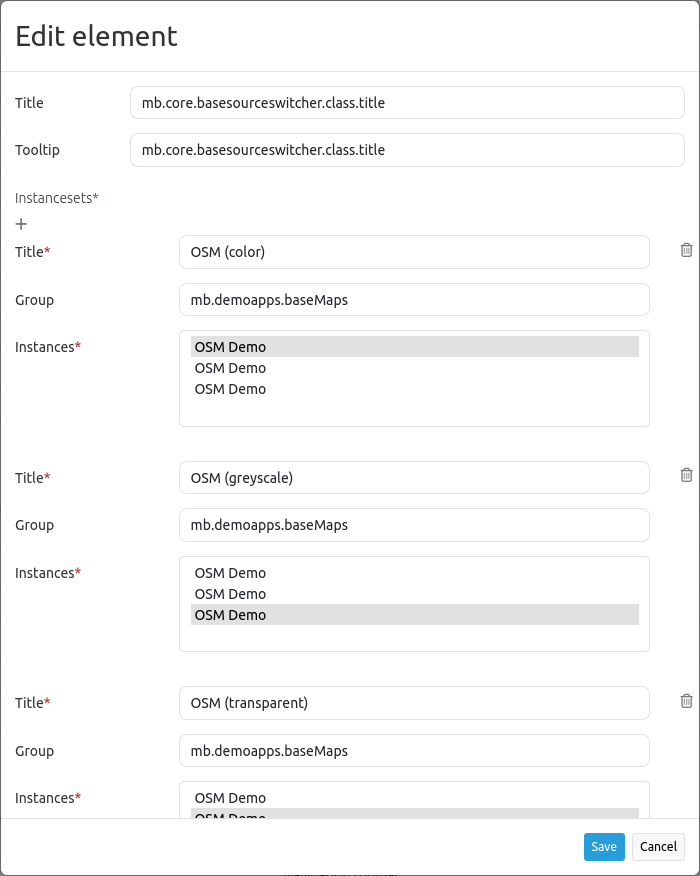
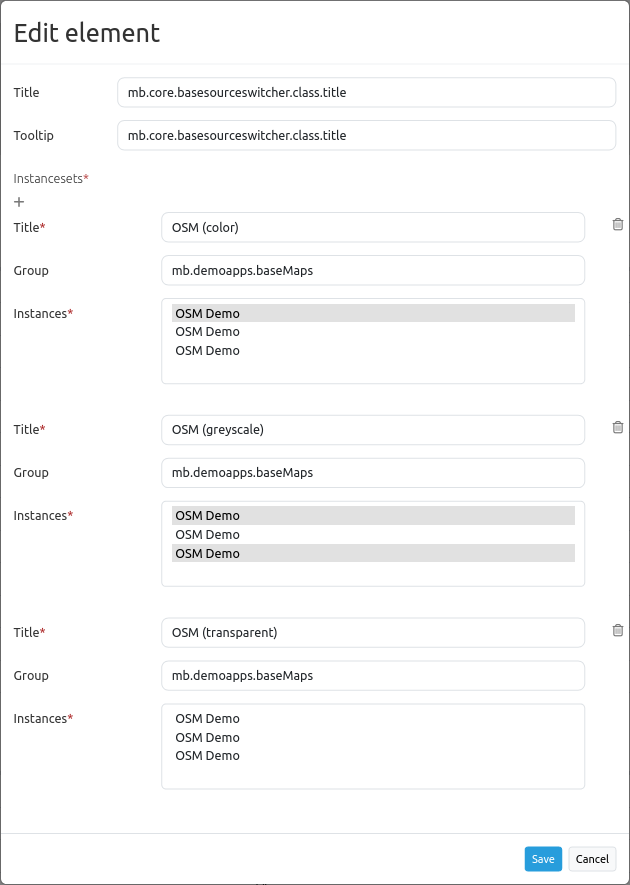
New Screenshots and fitting Text for the Basesourceswitcher Element

diff --git a/de/elements/basic/basesourceswitcher.rst b/de/elements/basic/basesourceswitcher.rst
@@ -48,7 +48,7 @@ Die Konfiguration des Elements geschieht in zwei Schritten:
 .. image:: ../../../figures/de/basesourceswitcher_de.png
      :scale: 70
 
-Das Konfigurationsbeispiel zeigt, dass entweder ein, kein oder mehrere Einträge pro Instanceset gewählt werden können. Durch eine Group-Angabe lassen sich Gruppen bilden. Weitere Instancesets können über den + ``Button`` hinzugefügt werden. Ein Instanceset lässt sich mit Drag & Drop verschieben.
+Das Konfigurationsbeispiel zeigt, dass entweder ein, mehrere oder keine Einträge pro Instanceset gewählt werden können. Durch eine Group-Angabe lassen sich Gruppen bilden. Weitere Instancesets können über den + ``Button`` hinzugefügt werden. Ein Instanceset lässt sich mit Drag & Drop verschieben.
 
 * **Title**: Name der Hintergrundkarte.
 * **Group**: Optionale Zuweisung zu einer Themengruppe.

diff --git a/en/elements/basic/basesourceswitcher.rst b/en/elements/basic/basesourceswitcher.rst
@@ -47,7 +47,7 @@ The configuration of the element itself occurs in two steps:
 .. image:: ../../../figures/basesourceswitcher_configuration.png
      :scale: 70
 
-In the configuration example either one, none or several entries per instanceset can be selected. You can create groups, which are then grouped together in the dropdown list. It is possible to move an instanceset in the configuration window via drag and drop.
+In the configuration example either one, several or no entries per instanceset can be selected. You can create groups, which are then grouped together in the dropdown list. It is possible to move an instanceset in the configuration window via drag and drop.
 
 * **Title**: Title of the BaseSource.
 * **Group**: Optional group name.
